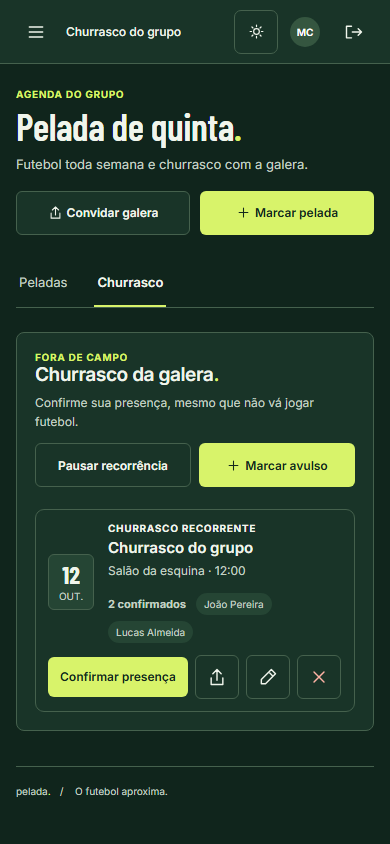
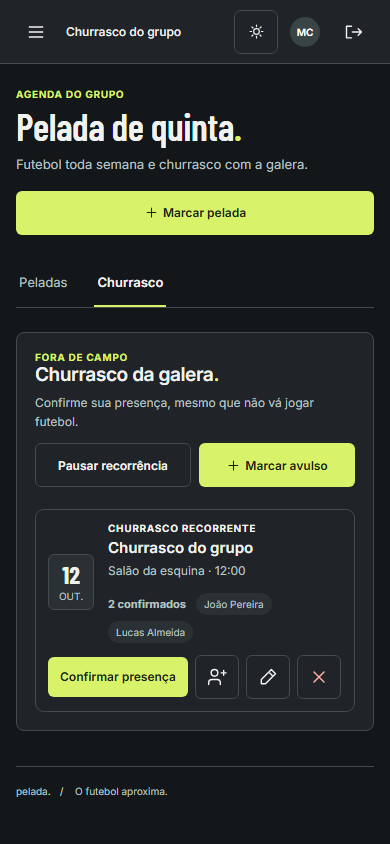
Diferencia convite da pelada e do churrasco

Changed region(s): [[0.0308, 0.2156, 0.8615, 0.2773], [0.5231, 0.7701, 0.5846, 0.8318]]

diff --git a/frontend/src/app/app.html b/frontend/src/app/app.html
@@ -137,7 +137,7 @@
           <div class="heading-actions">
             @if (!demo()) {
               <button class="button secondary" (click)="share(detail()!.club)">
-                <app-icon name="share" />Convidar galera
+                <app-icon name="user-plus" />Convidar galera
               </button>
             } @else {
               <button class="button secondary" (click)="showDemo(!demoFinished())">
@@ -694,16 +694,20 @@
             <h1>{{ club()!.name }}<span>.</span></h1>
             <p>{{ club()!.description }}</p>
           </div>
-          <div class="heading-actions">
-            <button class="button secondary" (click)="share(club())">
-              <app-icon name="share" />Convidar galera
-            </button>
-            @if (club()!.ownerId === user()?.id) {
-              <button class="button primary" (click)="open('game')">
-                <app-icon name="plus" />Marcar pelada
-              </button>
-            }
-          </div>
+          @if (groupTab() === 'games' || club()!.ownerId === user()?.id) {
+            <div class="heading-actions">
+              @if (groupTab() === 'games') {
+                <button class="button secondary" (click)="share(club())">
+                  <app-icon name="user-plus" />Convidar galera
+                </button>
+              }
+              @if (club()!.ownerId === user()?.id) {
+                <button class="button primary" (click)="open('game')">
+                  <app-icon name="plus" />Marcar pelada
+                </button>
+              }
+            </div>
+          }
         </div>
         <div class="group-tabs" role="tablist" aria-label="Agenda do grupo">
           <button
@@ -851,10 +855,15 @@
                       <button
                         class="icon-button"
                         [disabled]="busy()"
-                        [attr.aria-label]="'Copiar convite para ' + date(event.startsAt, 'full')"
+                        [attr.aria-label]="
+                          'Convidar alguém para o churrasco de ' +
+                          date(event.startsAt, 'full') +
+                          ' (copiar link)'
+                        "
+                        title="Convidar alguém (copiar link)"
                         (click)="inviteBarbecue(event)"
                       >
-                        <app-icon name="share" />
+                        <app-icon name="user-plus" />
                       </button>
                     }
                     @if (groupOwner() && !event.cancelled && isFuture(event.startsAt)) {

diff --git a/frontend/e2e/appearance.spec.ts b/frontend/e2e/appearance.spec.ts
@@ -271,8 +271,13 @@ test('conta conectada abre Meus grupos e a aba Churrasco', async ({ page }) => {
   await expect(page).toHaveURL(/#groups$/);
   await expect(page.getByRole('heading', { name: 'Seus grupos.' })).toBeVisible();
   await page.getByRole('button', { name: /Pelada de quinta/ }).click();
+  await expect(page.getByRole('button', { name: 'Convidar galera' })).toBeVisible();
   await page.getByRole('tab', { name: 'Churrasco' }).click();
+  await expect(page.getByRole('button', { name: 'Convidar galera' })).toHaveCount(0);
   await expect(page.locator('.barbecue-card')).toBeVisible();
+  await expect(
+    page.getByRole('button', { name: /Convidar alguém para o churrasco de/ }),
+  ).toBeVisible();
   await page.screenshot({
     path: path.resolve('../docs/screenshots/churrasco.png'),
     fullPage: true,

diff --git a/frontend/src/app/icon.ts b/frontend/src/app/icon.ts
@@ -5,6 +5,8 @@ const paths: Record<string, string> = {
     'M8 2v4 M16 2v4 M3 10h18 M5 4h14a2 2 0 0 1 2 2v14H3V6a2 2 0 0 1 2-2 M7 14h2 M12 14h2 M7 18h2',
   users:
     'M16 21v-2a4 4 0 0 0-4-4H6a4 4 0 0 0-4 4v2 M16 3a4 4 0 0 1 0 8 M22 21v-2a4 4 0 0 0-3-3.87 M9 3a4 4 0 1 1 0 8 4 4 0 0 1 0-8',
+  'user-plus':
+    'M16 21v-2a4 4 0 0 0-4-4H6a4 4 0 0 0-4 4v2 M9 3a4 4 0 1 1 0 8 4 4 0 0 1 0-8 M20 4v6 M17 7h6',
   pitch: 'M3 3h18v18H3z M3 12h18 M9 3v4h6V3 M9 21v-4h6v4 M12 9a3 3 0 1 1 0 6 3 3 0 0 1 0-6',
   arrow: 'M5 12h14 M13 6l6 6-6 6',
   chevron: 'M9 5l7 7-7 7',

diff --git a/frontend/e2e/pelada.spec.ts b/frontend/e2e/pelada.spec.ts
@@ -460,7 +460,7 @@ test('sorteio manual, recorrência de churrasco e convite individual em desktop 
   await expect(ownerPage.locator('.barbecue-card')).toHaveCount(6);
   await ownerPage.context().grantPermissions(['clipboard-read', 'clipboard-write']);
   await ownerPage
-    .getByRole('button', { name: /Copiar convite para/ })
+    .getByRole('button', { name: /Convidar alguém para o churrasco de/ })
     .first()
     .click();
   const inviteLink = await ownerPage.evaluate(() => navigator.clipboard.readText());
